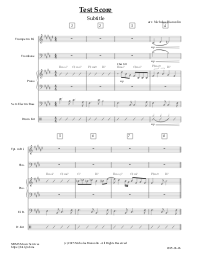
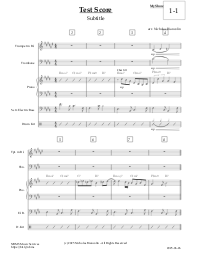
almost all wors, need to tweak style a bit

diff --git a/new_prog_part_formatter.py b/new_prog_part_formatter.py
@@ -18,7 +18,30 @@ class Style(Enum):
     JAZZ = 2
 
 
+SELECTED_STYLE = Style.BROADWAY
+SHOW_TITLE = "MyShow"
+SHOW_NUMBER = "1-1"
+
+
 # -- HELPER FUNCTIONS --
+def _make_show_number_text(show_number: str) -> ET.Element:
+    txt = ET.Element("Text")
+    style = ET.SubElement(txt, "style")
+    style.text = "user_2"
+    text = ET.SubElement(txt, "text")
+    text.text = show_number
+    return txt
+
+
+def _make_show_title_text(show_title: str) -> ET.Element:
+    txt = ET.Element("Text")
+    style = ET.SubElement(txt, "style")
+    style.text = "user_3"
+    text = ET.SubElement(txt, "text")
+    text.text = show_title
+    return txt
+
+
 def _make_line_break() -> ET.Element:
     lb = ET.Element("LayoutBreak")
     subtype = ET.SubElement(lb, "subtype")
@@ -73,9 +96,21 @@ def _add_page_break_to_measure(measure: ET.Element) -> None:
     measure.insert(index, _make_page_break())
 
 
+# TODO: Cleanup and remove
 def _add_double_bar_to_measure(measure: ET.Element) -> None:
     # Add the double bar as the very last tag in the measure
     measure.append(_make_double_bar())
+
+
+# -- Broadway specific formatting
+def add_broadway_header(
+    staff: ET.Element, show_number: str, show_title: str
+) -> ET.Element:
+    for elem in staff:
+        # find first VBox
+        if elem.tag == "VBox":
+            elem.append(_make_show_number_text(show_number))
+            elem.append(_make_show_title_text(show_title))
 
 
 # -- LayoutBreak formatting --
@@ -394,7 +429,7 @@ def mscz_main(mscz_path):
         # Extract all files to "temp" and collect all .mscx files from the zip structure
         zip_ref.extractall(TEMP_DIR)
 
-    add_styles_to_score_and_parts(Style.BROADWAY)
+    add_styles_to_score_and_parts(SELECTED_STYLE)
 
     mscx_files = [
         os.path.join(TEMP_DIR, f) for f in zip_ref.namelist() if f.endswith(".mscx")
@@ -433,10 +468,11 @@ def process_mscx(mscx_path, standalone=False):
         add_rehearsal_mark_line_breaks(staff)
         add_double_bar_line_breaks(staff)
         add_regular_line_breaks(staff)
-        # balance_mm_rest_line_breaks(staff)
         final_pass_through(staff)
         add_page_breaks(staff)
         cleanup_mm_rests(staff)
+        if SELECTED_STYLE == Style.BROADWAY:
+            add_broadway_header(staff, SHOW_NUMBER, SHOW_TITLE)
 
         if standalone:
             out_path = mscx_path.replace("test-data", "test-data-copy")
